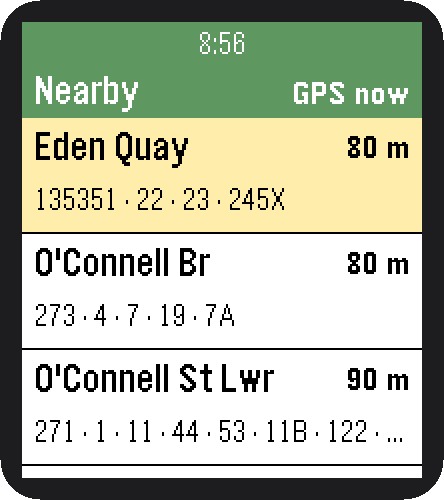
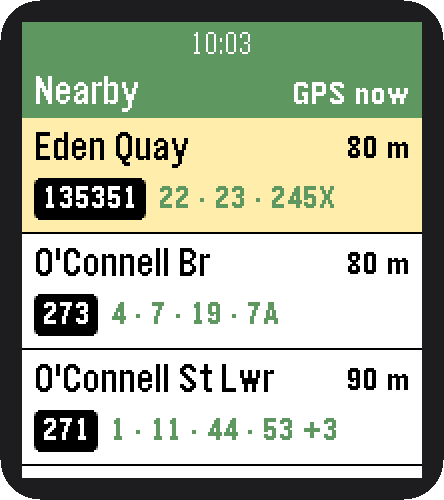
Fix blank route lines on newer firmware; stop-number tag, first 4 routes; high-accuracy GPS
Claude-Session: https://claude.ai/code/session_01R4eTV2K2ATNvKw32corm4J

diff --git a/src/pkjs/index.js b/src/pkjs/index.js
@@ -102,7 +102,11 @@ function stopDist(code) {
 function sendHome() {
   var f = favs(), lines = [];
   // Keep the message inside the watch's inbox: the watch shows ~40 chars of routes anyway.
-  var routes = function (r) { return r.length > 40 ? r.slice(0, 39) + '…' : r; };
+  // First 4 routes, then "+N": whole routes only (the watch firmware blanks a cut like "C4 ·…").
+  var routes = function (r) {
+    var all = r ? r.split(' · ') : [];
+    return all.slice(0, 4).join(' · ') + (all.length > 4 ? ' +' + (all.length - 4) : '');
+  };
   f.slice(0, MAX_FAVS).forEach(function (code) {
     var s = byCode[code];
     lines.push(['F', code, s ? s[1] : 'Stop ' + code, stopDist(code), s ? routes(s[4]) : '', 1].join('\t'));
@@ -136,7 +140,7 @@ function locate(fresh) {
     if (err && err.code === 1) here = 'off';
     else if (!here || here === 'off') here = 'nofix';
     sendHome();
-  }, { timeout: 15000, maximumAge: fresh ? 0 : 60000 });
+  }, { enableHighAccuracy: true, timeout: 15000, maximumAge: fresh ? 0 : 10000 }); // real GPS, not Wi-Fi/cell guesses
 }
 
 function loadIndex() {

diff --git a/src/c/main.c b/src/c/main.c
@@ -139,6 +139,9 @@ static void draw_star(GContext *ctx, GPoint o, int size, GColor c, bool filled) 
 }
 
 static void text(GContext *ctx, const char *s, const char *font, GRect r, GTextAlignment a) {
+  // Newer watch firmware draws nothing when a line needing "…" only just fits the box;
+  // spare height fixes that (still well short of a second line).
+  r.size.h += 8;
   graphics_draw_text(ctx, s, fonts_get_system_font(font), r, GTextOverflowModeTrailingEllipsis, a, NULL);
 }
 
@@ -420,10 +423,16 @@ static void list_row(GContext *ctx, const Layer *cell, MenuIndex *i, void *data)
   graphics_context_set_text_color(ctx, GColorBlack);
   text(ctx, p->name, FONT_KEY_GOTHIC_24_BOLD, GRect(x, -3, b.size.w - 64 - x, 28), GTextAlignmentLeft);
   text(ctx, p->dist, FONT_KEY_GOTHIC_18_BOLD, GRect(b.size.w - 62, 2, 56, 22), GTextAlignmentRight);
-  char line[56];
-  if (p->routes[0]) snprintf(line, sizeof(line), "%s · %s", p->code, p->routes);
-  else snprintf(line, sizeof(line), "%s", p->code);
-  text(ctx, line, FONT_KEY_GOTHIC_18, GRect(6, 28, b.size.w - 12, 24), GTextAlignmentLeft);
+  // Stop number as a black tag (like the pole), routes after it in green.
+  GFont tag = fonts_get_system_font(FONT_KEY_GOTHIC_18_BOLD);
+  int tw = graphics_text_layout_get_content_size(p->code, tag, GRect(0, 0, 100, 24),
+                                                 GTextOverflowModeTrailingEllipsis, GTextAlignmentLeft).w + 8;
+  graphics_context_set_fill_color(ctx, GColorBlack);
+  graphics_fill_rect(ctx, GRect(6, 30, tw, 21), 3, GCornersAll);
+  graphics_context_set_text_color(ctx, GColorWhite);
+  text(ctx, p->code, FONT_KEY_GOTHIC_18_BOLD, GRect(6, 27, tw, 22), GTextAlignmentCenter);
+  graphics_context_set_text_color(ctx, LIVE_FG);
+  text(ctx, p->routes, FONT_KEY_GOTHIC_18_BOLD, GRect(tw + 12, 27, b.size.w - tw - 18, 24), GTextAlignmentLeft);
   graphics_context_set_stroke_color(ctx, GColorBlack);
   graphics_draw_line(ctx, GPoint(0, 57), GPoint(b.size.w, 57));
 }
